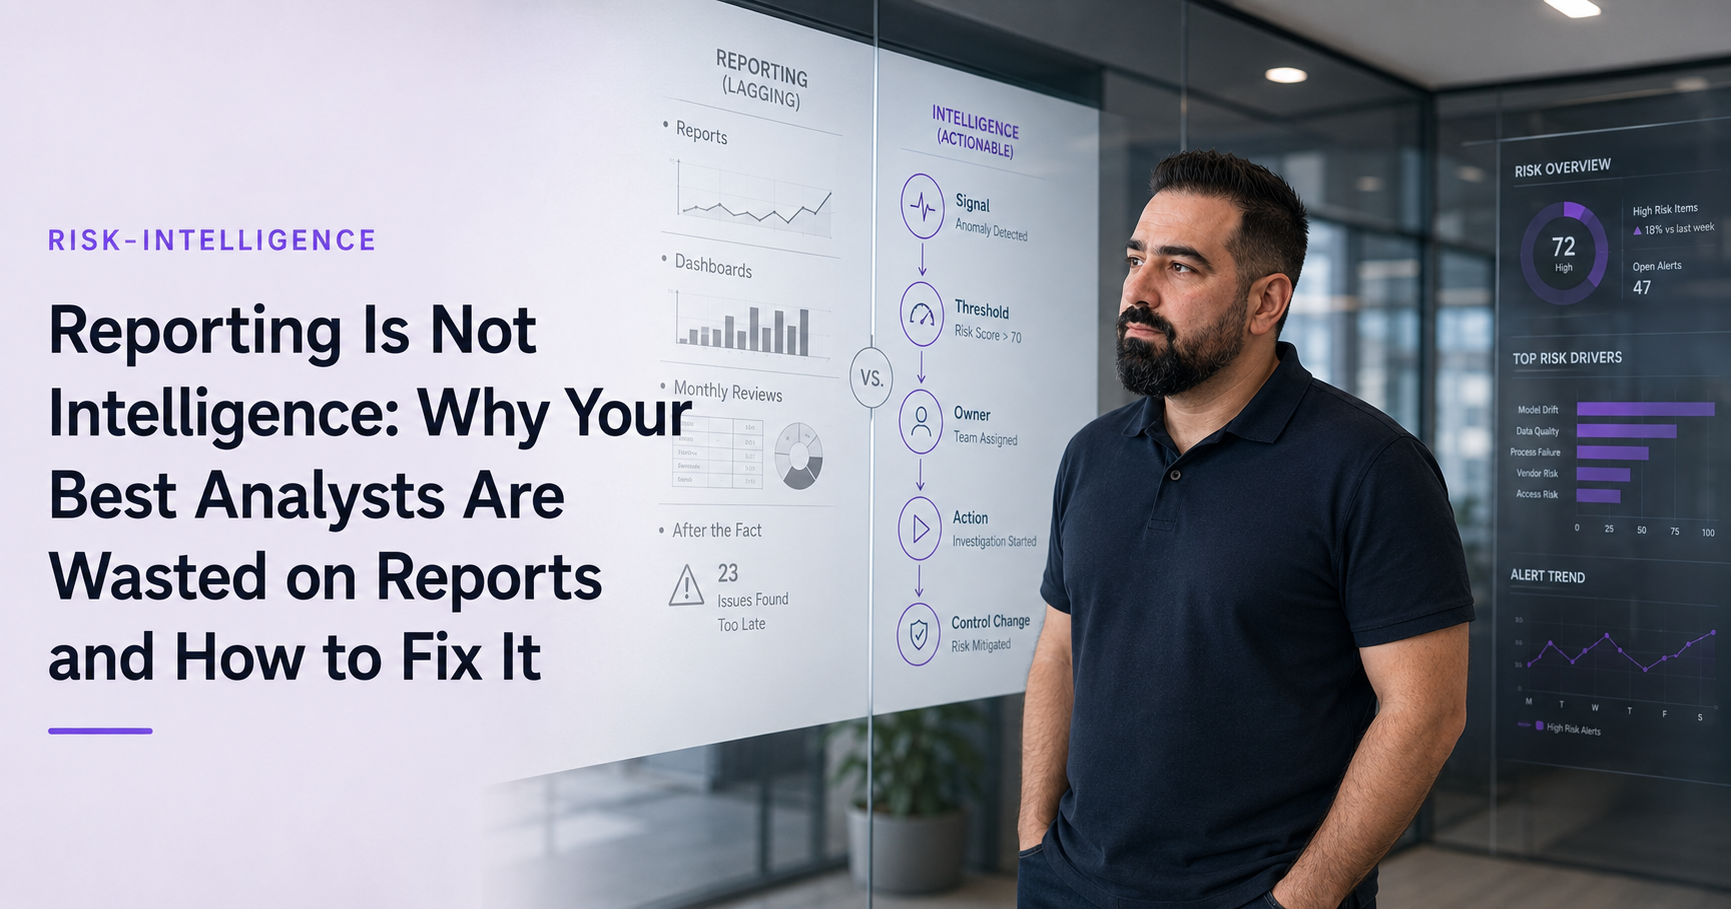
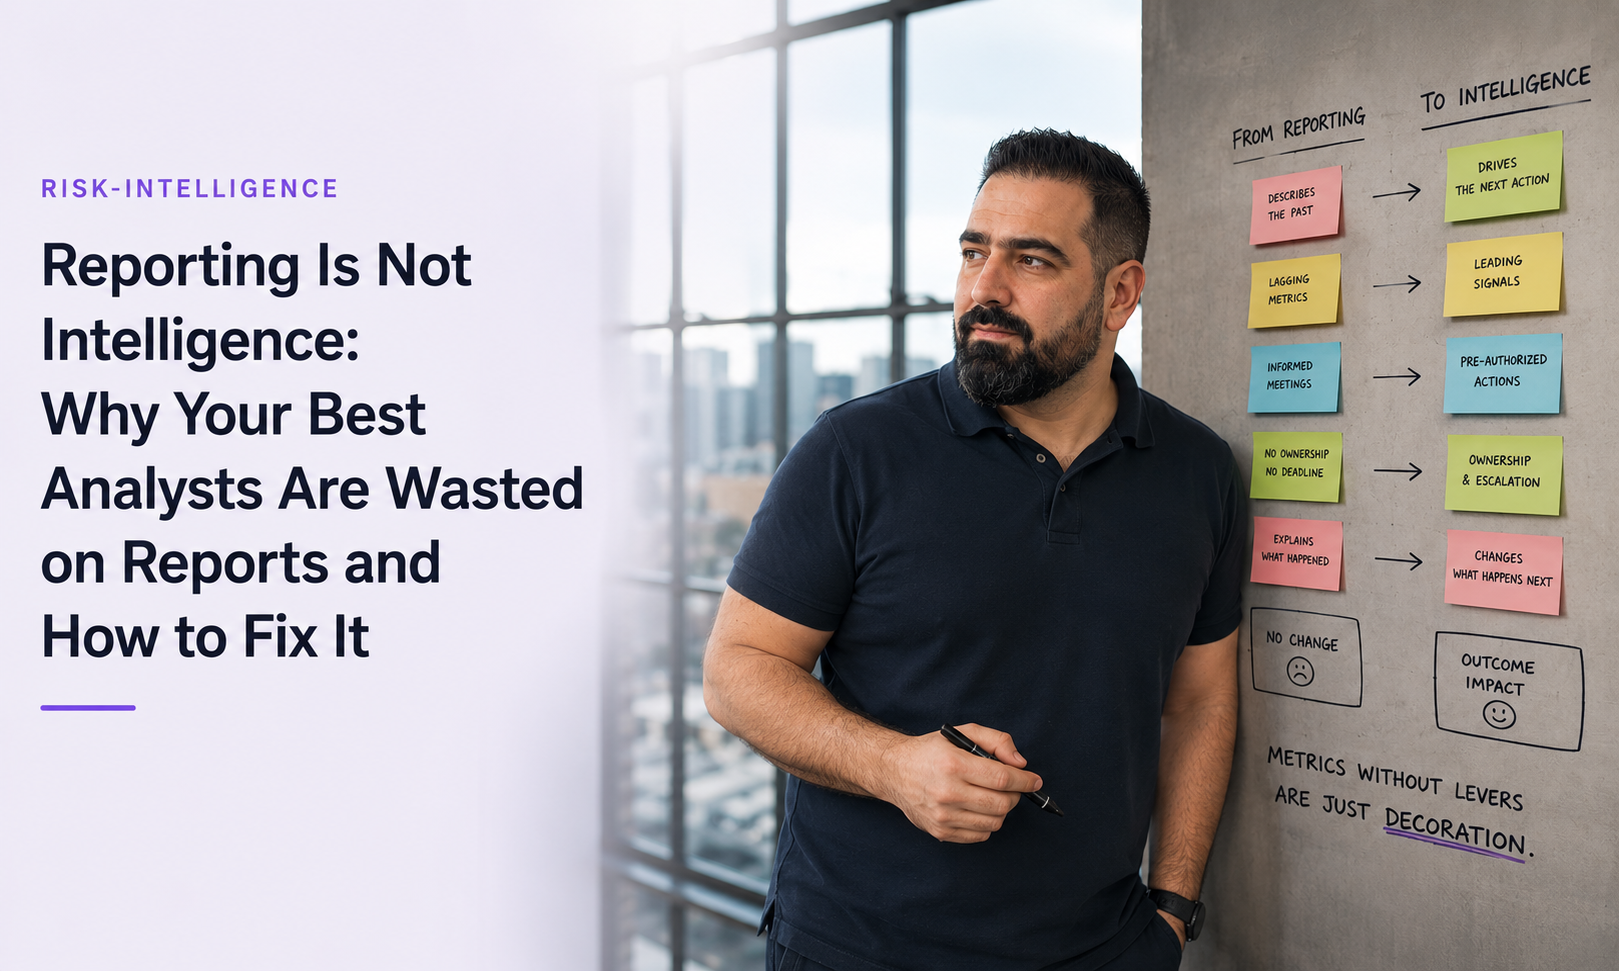
adding posts images

diff --git a/_posts/2026-05-28-if-ai-handles-execution-whats-left-for-my-career.md b/_posts/2026-05-28-if-ai-handles-execution-whats-left-for-my-career.md
@@ -6,6 +6,9 @@ share-description: "AI handles execution, but humans own judgment. Learn how to 
 tags:
   - ai-job-risk
 author: Hasan J.
+thumbnail-img: /assets/img/posts/2026-05-28-if-ai-handles-execution-whats-left-for-my-career.webp
+share-img: /assets/img/posts/2026-05-28-if-ai-handles-execution-whats-left-for-my-career.webp
+
 ---
 
 **Key takeaways:** As AI automates more execution tasks, your career shifts from merely operating tools to applying critical judgment. AI handles the 'how,' but it cannot define the 'why' or 'when.' Focus on developing skills in setting operational thresholds, owning trade-offs between competing outcomes, and knowing precisely when to override or escalate beyond the machine's output.

diff --git a/_posts/2026-05-28-ai-exposes-weak-ops-and-slow-decisions-signals-without-authority-become-expensive-noise.md b/_posts/2026-05-28-ai-exposes-weak-ops-and-slow-decisions-signals-without-authority-become-expensive-noise.md
@@ -6,6 +6,8 @@ share-description: "AI multiplies your detection capacity. If approvals are slow
 tags:
   - ai-decision-operations
 author: Hasan J.
+thumbnail-img: /assets/img/posts/2026-05-28-ai-exposes-weak-ops-and-slow-decisions-signals-without-authority-become-expensive-noise.webp
+share-img: /assets/img/posts/2026-05-28-ai-exposes-weak-ops-and-slow-decisions-signals-without-authority-become-expensive-noise.webp
 ---
 
 2:17 a.m., the payouts channel turned red.